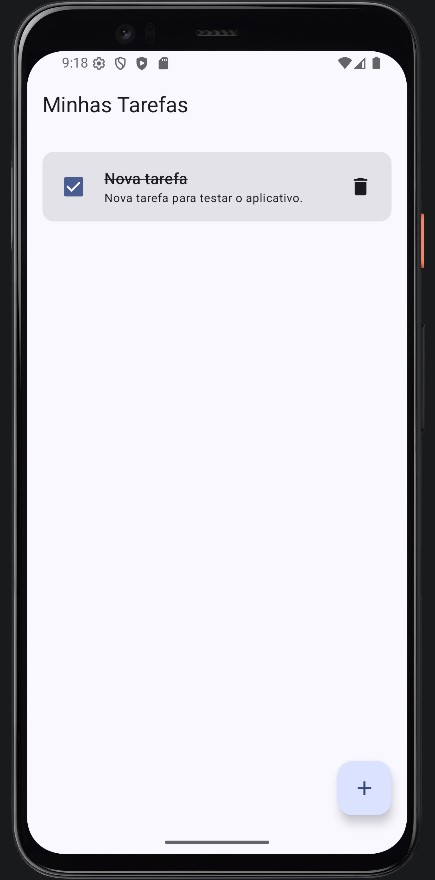
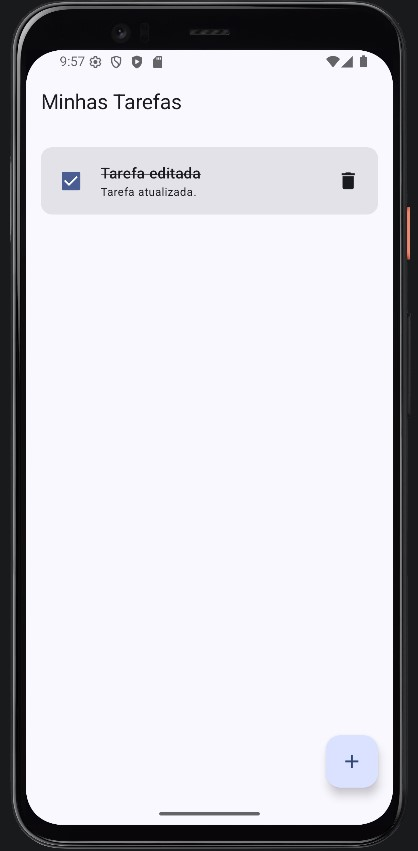
doc: inclusao do readme

diff --git a/README.md b/README.md
@@ -1,0 +1,349 @@
+# FIAP To-Do List
+
+> Trabalho acadêmico desenvolvido para a disciplina **Android Kotlin Developer** da FIAP.
+
+| Informação | Detalhe |
+|---|---|
+| **Aluno** | Lucas Almeida Bel Correa |
+| **Turma** | 3SIR - FIAP |
+| **Instituição** | FIAP |
+| **Professor** | Ewerton Luiz de Lima Carreira |
+| **Disciplina** | Android Kotlin Developer |
+
+## Sobre o projeto
+
+O **FIAP To-Do List** é um aplicativo Android nativo para gerenciamento de tarefas pessoais. A aplicação permite cadastrar tarefas, visualizar os registros salvos, editar título e descrição, marcar itens como concluídos e excluir tarefas. Os dados são armazenados localmente com Room, portanto permanecem disponíveis após o fechamento do aplicativo e não dependem de conexão com a internet.
+
+Além de entregar as operações de CRUD, o projeto foi desenvolvido para aplicar uma organização baseada em **MVVM com Repository**, mantendo interface, gerenciamento de estado e persistência em camadas com responsabilidades distintas. A interface foi construída de forma declarativa com Jetpack Compose e reage automaticamente às alterações do banco por meio de Flow e StateFlow.
+
+
+## Escopo implementado
+
+| Etapa | Commit de referência | Implementação |
+|---|---|---|
+| Repository e ViewModel | [`80dcd64`](https://github.com/carreiras/to-do-list/commit/80dcd646f67a40501680526730d8e294269287e0) | Criação de `TarefaRepository` e `TarefaViewModel`, com exposição do estado e operações de inserção, atualização e exclusão. |
+| Tela de listagem | [`3978a81`](https://github.com/carreiras/to-do-list/commit/3978a8153ce2243d209f7616bacbdcd3bef378ea) | Criação de `ListaTarefasScreen` com `LazyColumn`, estado vazio, conclusão de tarefas, edição, exclusão, cadastro e previews. |
+| Formulário | [`0c6c971`](https://github.com/carreiras/to-do-list/commit/0c6c97158f96d8baad44754b420690e05453a5fa) | Criação de `FormularioTarefaScreen` para atender cadastro e edição, com preenchimento dos dados existentes e previews. |
+| Navegação | [`cc4f148`](https://github.com/carreiras/to-do-list/commit/cc4f148ccefac47b9f39243d0998812887ad193b) | Configuração de `AppNavigation` com as rotas da lista e do formulário, incluindo o ID da tarefa no caminho. |
+| Integração inicial | [`5788686`](https://github.com/carreiras/to-do-list/commit/57886860775559228effea503ef9a705955d72ad) | Substituição da tela de exemplo do template pela criação da ViewModel e inicialização da navegação na `MainActivity`. |
+
+### Funcionalidades disponíveis
+
+- cadastro de tarefa com título obrigatório e descrição opcional;
+- listagem reativa das tarefas, ordenadas da mais recente para a mais antiga;
+- edição do título e da descrição de uma tarefa existente;
+- marcação e desmarcação de uma tarefa como concluída;
+- exclusão de tarefas;
+- persistência local com Room;
+- navegação entre lista e formulário;
+- estado visual para lista vazia;
+- previews dos principais estados das telas e componentes.
+
+## Tecnologias utilizadas
+
+| Tecnologia | Utilização no projeto |
+|---|---|
+| **Kotlin** | Linguagem principal utilizada para implementar as camadas de dados, estado, navegação e interface. |
+| **Jetpack Compose** | Construção declarativa da interface, utilizando componentes como `Scaffold`, `LazyColumn`, `Card`, `Checkbox`, `OutlinedTextField` e `FloatingActionButton`. |
+| **Material 3** | Componentes visuais e estrutura de tema utilizados pelas telas. |
+| **Room** | Persistência local das tarefas por meio de Entity, DAO e banco de dados SQLite abstraído pela biblioteca. |
+| **Coroutines** | Execução assíncrona das operações suspensas de inserção, atualização e exclusão sem bloquear a interface. |
+| **Flow e StateFlow** | Propagação reativa da lista de tarefas desde o DAO até a interface. |
+| **ViewModel** | Manutenção do estado da tela e coordenação das ações da interface durante o ciclo de vida da Activity. |
+| **Navigation Compose** | Definição das rotas e navegação entre a listagem e o formulário de cadastro ou edição. |
+| **KSP** | Processamento das anotações do Room e geração do código necessário para acesso ao banco. |
+| **Compose Preview** | Visualização isolada dos estados da interface diretamente no Android Studio. |
+
+### Configuração técnica do projeto
+
+- **Android Gradle Plugin:** 9.1.0
+- **Gradle Wrapper:** 9.3.1
+- **Kotlin:** 2.2.10
+- **Java/JVM:** 21
+- **Compile SDK:** 36
+- **Target SDK:** 36
+- **Minimum SDK:** 24
+- **Room:** 2.7.1
+- **Navigation Compose:** 2.9.0
+
+## Arquitetura
+
+O aplicativo segue o padrão **MVVM com Repository**. A organização evita que as telas acessem diretamente o banco de dados e estabelece um fluxo previsível para leitura e alteração das tarefas.
+
+```mermaid
+flowchart LR
+    UI[Jetpack Compose UI] -->|Ações do usuário| VM[TarefaViewModel]
+    VM -->|Coroutines| REPO[TarefaRepository]
+    REPO --> DAO[TarefaDao]
+    DAO --> DB[(Room Database)]
+    DB -. Alterações observadas .-> DAO
+    DAO -. Flow de tarefas .-> REPO
+    REPO -. Flow .-> VM
+    VM -. StateFlow .-> UI
+```
+
+O fluxo ocorre em duas direções complementares:
+
+1. **Ações:** a interface encaminha eventos para a ViewModel, que inicia uma coroutine e solicita a operação ao Repository. O Repository delega a chamada ao DAO, que altera o banco Room.
+2. **Estado:** quando a tabela é alterada, a consulta observável do DAO emite uma nova lista por `Flow`. A ViewModel converte esse fluxo em `StateFlow`, e as telas coletam o estado de forma compatível com o ciclo de vida. O Compose então recompõe apenas os elementos afetados.
+
+Essa abordagem mantém um fluxo unidirecional de estado: a interface exibe dados recebidos da ViewModel e devolve somente ações do usuário, sem controlar diretamente a persistência.
+
+## Estrutura principal
+
+```text
+app/src/main/java/LucasABelCorrea/com/github/todolist/
+├── data/
+│   ├── Tarefa.kt
+│   ├── TarefaDao.kt
+│   └── TarefaDatabase.kt
+├── repository/
+│   └── TarefaRepository.kt
+├── viewmodel/
+│   └── TarefaViewModel.kt
+├── ui/
+│   ├── ListaTarefasScreen.kt
+│   └── FormularioTarefaScreen.kt
+├── navigation/
+│   └── AppNavigation.kt
+└── MainActivity.kt
+
+docs/
+└── evidencias/
+    ├── cadastro_nova_tarefa.jpg
+    ├── nova_tarefa_cadastrada.jpg
+    ├── sucesso_de_build.jpg
+    ├── tarefa_concluida.jpg
+    └── tela_inicial.jpg
+    └── tarefa_editada.jpg
+```
+
+## Camada de dados
+
+### `Tarefa`
+
+`Tarefa.kt` representa a entidade persistida na tabela `tarefas`. Cada registro contém:
+
+- `id`: chave primária inteira gerada automaticamente;
+- `titulo`: nome da tarefa;
+- `descricao`: detalhamento da tarefa;
+- `concluida`: estado de conclusão, iniciado como `false`;
+- `dataCriacao`: instante de criação utilizado para ordenar a listagem.
+
+O valor `0` do ID também é usado pela navegação como convenção para representar uma tarefa ainda não cadastrada.
+
+### `TarefaDao`
+
+`TarefaDao.kt` define o contrato de acesso ao banco:
+
+- `listarTodas()` retorna `Flow<List<Tarefa>>` e ordena os registros por `dataCriacao DESC`;
+- `inserir()` adiciona uma nova tarefa;
+- `atualizar()` persiste mudanças em uma tarefa existente;
+- `deletar()` remove o registro informado.
+
+As operações de escrita são funções `suspend`, permitindo que sejam executadas por coroutines fora do fluxo principal da interface.
+
+### `TarefaDatabase`
+
+`TarefaDatabase.kt` configura o banco Room na versão 1 e fornece o `TarefaDao`. A instância é criada com o nome `tarefas.db`. O `companion object` utiliza `@Volatile` e `synchronized` como estratégia de acesso compartilhado, centralizando a obtenção do banco durante a execução da aplicação.
+
+## Responsabilidade de `TarefaRepository`
+
+`TarefaRepository` é a camada intermediária entre a ViewModel e o DAO. Sua responsabilidade é fornecer uma API de dados para o restante da aplicação sem expor diretamente os detalhes de implementação do Room.
+
+No estado atual, o Repository é propositalmente simples:
+
+- recebe `TarefaDao` pelo construtor;
+- expõe `tarefas: Flow<List<Tarefa>>`, originado pela consulta do DAO;
+- delega `inserir`, `atualizar` e `deletar` para o DAO.
+
+Mesmo sendo uma camada fina, essa separação reduz o acoplamento da `TarefaViewModel` com o Room. Caso a fonte de dados mude ou passe a combinar banco local, API, cache ou regras adicionais, essas alterações podem ser concentradas no Repository sem modificar diretamente a interface.
+
+## Responsabilidade de `TarefaViewModel`
+
+`TarefaViewModel` funciona como detentora do estado da interface e como ponto de entrada para as ações relacionadas às tarefas. Ela recebe o `TarefaRepository`, mas não acessa o DAO ou o banco diretamente.
+
+A propriedade `tarefas` é exposta como `StateFlow<List<Tarefa>>`. Para isso, o `Flow` do Repository é convertido por `stateIn` com:
+
+- `viewModelScope` como escopo da coleta;
+- `SharingStarted.WhileSubscribed(5_000)` para manter o fluxo ativo durante um curto período após o último observador;
+- `emptyList()` como estado inicial enquanto o Room ainda não emitiu a primeira lista.
+
+Os métodos `inserir`, `atualizar` e `deletar` iniciam operações dentro de `viewModelScope.launch`. Dessa forma, as chamadas suspensas do Repository são executadas sem bloquear a thread principal e são canceladas automaticamente quando a ViewModel é descartada.
+
+A ViewModel também fornece uma `ViewModelProvider.Factory`. Essa Factory monta manualmente as dependências na seguinte ordem:
+
+```text
+Context → TarefaDatabase → TarefaDao → TarefaRepository → TarefaViewModel
+```
+
+Esse mecanismo substitui a necessidade de um framework de injeção de dependência e garante que a ViewModel seja criada pelo sistema com o ciclo de vida correto.
+
+## Como `ListaTarefasScreen` observa o estado e dispara ações
+
+`ListaTarefasScreen` é o Composable conectado à `TarefaViewModel`. A lista é observada por meio de:
+
+```kotlin
+val tarefas by viewModel.tarefas.collectAsStateWithLifecycle()
+```
+
+`collectAsStateWithLifecycle()` transforma o `StateFlow` em estado do Compose e mantém a coleta associada ao ciclo de vida da tela. Sempre que o Room emitir uma lista atualizada, o Compose recebe o novo valor e recompõe a interface.
+
+A tela conectada delega a renderização para `ListaTarefasContent`, passando a lista e callbacks. Essa separação cria dois níveis:
+
+- **`ListaTarefasScreen`**: componente stateful, responsável por observar a ViewModel e encaminhar ações;
+- **`ListaTarefasContent`**: componente orientado por parâmetros, responsável apenas por desenhar o estado recebido e emitir eventos pelas lambdas.
+
+As principais ações são disparadas assim:
+
+- o botão flutuante executa `onNovaTarefa`;
+- o toque no card executa `onEditarTarefa(tarefa.id)`;
+- o checkbox cria uma cópia com o novo valor de `concluida` e chama `viewModel.atualizar(...)`;
+- o ícone de lixeira chama `viewModel.deletar(tarefa)`.
+
+Quando existem tarefas, elas são exibidas por uma `LazyColumn`, que renderiza somente os itens necessários e usa o ID como chave estável. Quando a lista está vazia, a tela apresenta a mensagem `Nenhuma tarefa cadastrada.`.
+
+A divisão entre Screen e Content também viabiliza os previews sem precisar instanciar uma ViewModel ou um banco real. O arquivo contém previews para lista preenchida, lista vazia, item pendente e item concluído.
+
+## Como `FormularioTarefaScreen` diferencia cadastro e edição
+
+`FormularioTarefaScreen` recebe `tarefaId` pela navegação e usa o valor para determinar o modo de funcionamento:
+
+- `tarefaId == 0`: modo de cadastro;
+- `tarefaId != 0`: modo de edição.
+
+A tela também observa `viewModel.tarefas` com `collectAsStateWithLifecycle()` e procura a tarefa correspondente ao ID recebido:
+
+```kotlin
+val tarefaExistente = remember(tarefas, tarefaId) {
+    tarefas.find { it.id == tarefaId }
+}
+```
+
+No cadastro, os campos começam vazios e, ao salvar, é criada uma nova instância de `Tarefa`. Na edição, título e descrição são preenchidos com os dados existentes. O salvamento utiliza `tarefaExistente.copy(...)`, alterando somente título e descrição e preservando o ID, a situação de conclusão e a data de criação.
+
+`FormularioTarefaContent` mantém os valores digitados com estado local do Compose. O título da barra superior muda entre `Nova Tarefa` e `Editar Tarefa`, o botão Salvar permanece desabilitado quando o título está em branco e os textos são tratados com `trim()` antes do envio.
+
+Após uma inserção ou atualização, `onVoltar()` é chamado para retornar à listagem. A seta da barra superior também executa `onVoltar()`, mas sem salvar alterações.
+
+Assim como na listagem, a separação entre `FormularioTarefaScreen` e `FormularioTarefaContent` permite previews independentes para os modos de nova tarefa e edição.
+
+## Rotas configuradas em `AppNavigation`
+
+`AppNavigation` cria e mantém um `NavController` com `rememberNavController()` e configura um `NavHost` cuja tela inicial é a lista.
+
+| Rota | Destino | Comportamento |
+|---|---|---|
+| `lista` | `ListaTarefasScreen` | Exibe as tarefas e oferece ações para criar ou editar. |
+| `formulario/{tarefaId}` | `FormularioTarefaScreen` | Abre o formulário e entrega o identificador recebido no caminho. |
+| `formulario/0` | `FormularioTarefaScreen` | Representa o cadastro de uma nova tarefa. |
+| `formulario/<id>` | `FormularioTarefaScreen` | Representa a edição da tarefa cujo ID foi informado. |
+
+Ao selecionar **Nova tarefa**, a aplicação navega para `formulario/0`. Ao tocar em uma tarefa existente, monta a rota `formulario/$id`.
+
+No destino do formulário, o valor de `tarefaId` é lido de `backStackEntry.arguments`, convertido para `Int` e enviado para `FormularioTarefaScreen`. O retorno é feito com `navController.popBackStack()`, removendo o formulário da pilha e reapresentando a lista.
+
+A mesma instância de `TarefaViewModel` é repassada às duas rotas. Com isso, lista e formulário compartilham o mesmo estado e as alterações persistidas são refletidas na listagem quando o usuário retorna.
+
+## Como a `MainActivity` inicia a aplicação
+
+`MainActivity` é o ponto de entrada do aplicativo e atua como raiz de composição das dependências. Em `onCreate`, ela:
+
+1. habilita o desenho edge-to-edge;
+2. inicia a árvore Compose com `setContent`;
+3. aplica o tema `FiaptodolistTheme`;
+4. solicita a criação de `TarefaViewModel` por meio de `viewModel(factory = ...)`;
+5. passa a ViewModel para `AppNavigation`.
+
+A Factory recebe `applicationContext`, recupera a instância singleton de `TarefaDatabase`, obtém o DAO, cria o Repository e, por fim, cria a ViewModel. O uso da função `viewModel()` associa essa instância ao ciclo de vida da Activity e evita recriá-la a cada recomposição.
+
+Com essa integração, o conteúdo de exemplo gerado pelo template do Android Studio deixa de ser a tela principal. A aplicação passa a iniciar diretamente no fluxo real de navegação e gerenciamento de tarefas.
+
+## Previews e separação entre estado e apresentação
+
+As telas que dependem de ViewModel foram separadas entre uma função conectada ao estado e uma função de conteúdo. Essa decisão evita a tentativa de criar banco, Context ou ViewModel durante um Preview.
+
+```text
+Screen conectada → observa ViewModel e configura callbacks
+Content          → recebe dados simples, desenha a UI e pode ser exibida em @Preview
+```
+
+Esse padrão melhora a testabilidade visual, reduz o acoplamento dos componentes de apresentação e permite visualizar diferentes cenários no Android Studio sem executar o aplicativo.
+
+## Testes presentes no projeto
+
+O projeto contém testes instrumentados para o `TarefaDao` utilizando um banco Room em memória. Os cenários cobertos verificam:
+
+- inserção e leitura de uma tarefa;
+- atualização do estado para concluída;
+- exclusão de uma tarefa.
+
+Como o banco é criado em memória durante cada teste e fechado ao final, os testes não alteram os dados da instalação real do aplicativo.
+
+## Como executar
+
+### Pré-requisitos
+
+- Android Studio compatível com o Android Gradle Plugin 9.1.0;
+- JDK 21 configurado no Gradle;
+- Android SDK Platform 36 instalado;
+- emulador ou dispositivo Android com API 24 ou superior.
+
+### Pelo Android Studio
+
+1. Faça o clone ou download deste repositório.
+2. Abra no Android Studio a pasta raiz que contém `settings.gradle.kts`.
+3. Aguarde a sincronização do Gradle e a instalação das dependências.
+4. Confirme que o Gradle está configurado para utilizar o JDK 21.
+5. Crie ou inicie um emulador Android, ou conecte um dispositivo físico com depuração USB habilitada.
+6. Selecione a configuração do módulo `app`.
+7. Clique em **Run** para compilar, instalar e abrir a aplicação.
+
+### Compilação pelo terminal
+
+No Windows:
+
+```powershell
+.\gradlew.bat assembleDebug
+```
+
+No Linux ou macOS:
+
+```bash
+chmod +x gradlew
+./gradlew assembleDebug
+```
+
+Para executar os testes instrumentados, mantenha um emulador ou dispositivo conectado e utilize:
+
+```powershell
+.\gradlew.bat connectedAndroidTest
+```
+
+## Evidências
+
+As imagens abaixo estão armazenadas em `docs/evidencias` e registram os principais estados validados durante a atividade.
+
+### Tela inicial e cadastro
+
+| Estado inicial sem tarefas | Formulário de nova tarefa |
+|---|---|
+| <img src="docs/evidencias/tela_inicial.jpg" alt="Tela inicial do aplicativo sem tarefas cadastradas" width="280"> | <img src="docs/evidencias/cadastro_nova_tarefa.jpg" alt="Formulário preenchido para cadastro de uma nova tarefa" width="280"> |
+
+A primeira evidência demonstra o estado vazio da `ListaTarefasScreen`. A segunda apresenta o formulário em modo de cadastro, com título e descrição preenchidos.
+
+### Tarefa cadastrada, editada e concluída
+
+| Registro salvo na listagem | Tarefa após edição | Alteração do estado de conclusão |
+|---|---|---|
+| <img src="docs/evidencias/nova_tarefa_cadastrada.jpg" alt="Nova tarefa exibida após o cadastro" width="280"> | <img src="docs/evidencias/tarefa_editada.jpg" alt="Tarefa exibida após a edição dos seus dados" width="280"> | <img src="docs/evidencias/tarefa_concluida.jpg" alt="Tarefa marcada como concluída" width="280"> |
+
+Essas evidências demonstram o fluxo de gerenciamento da tarefa: o registro é apresentado na listagem após o cadastro, suas informações podem ser alteradas pelo formulário em modo de edição e seu estado pode ser atualizado para concluído por meio do checkbox. As alterações persistidas são refletidas na interface a partir do estado observado pela aplicação.
+
+### Build do projeto
+
+<p align="center">
+  <img src="docs/evidencias/sucesso_de_build.jpg" alt="Mensagem de build concluído com sucesso" width="650">
+</p>
+
+A evidência registra a conclusão bem-sucedida do processo de build do projeto.
